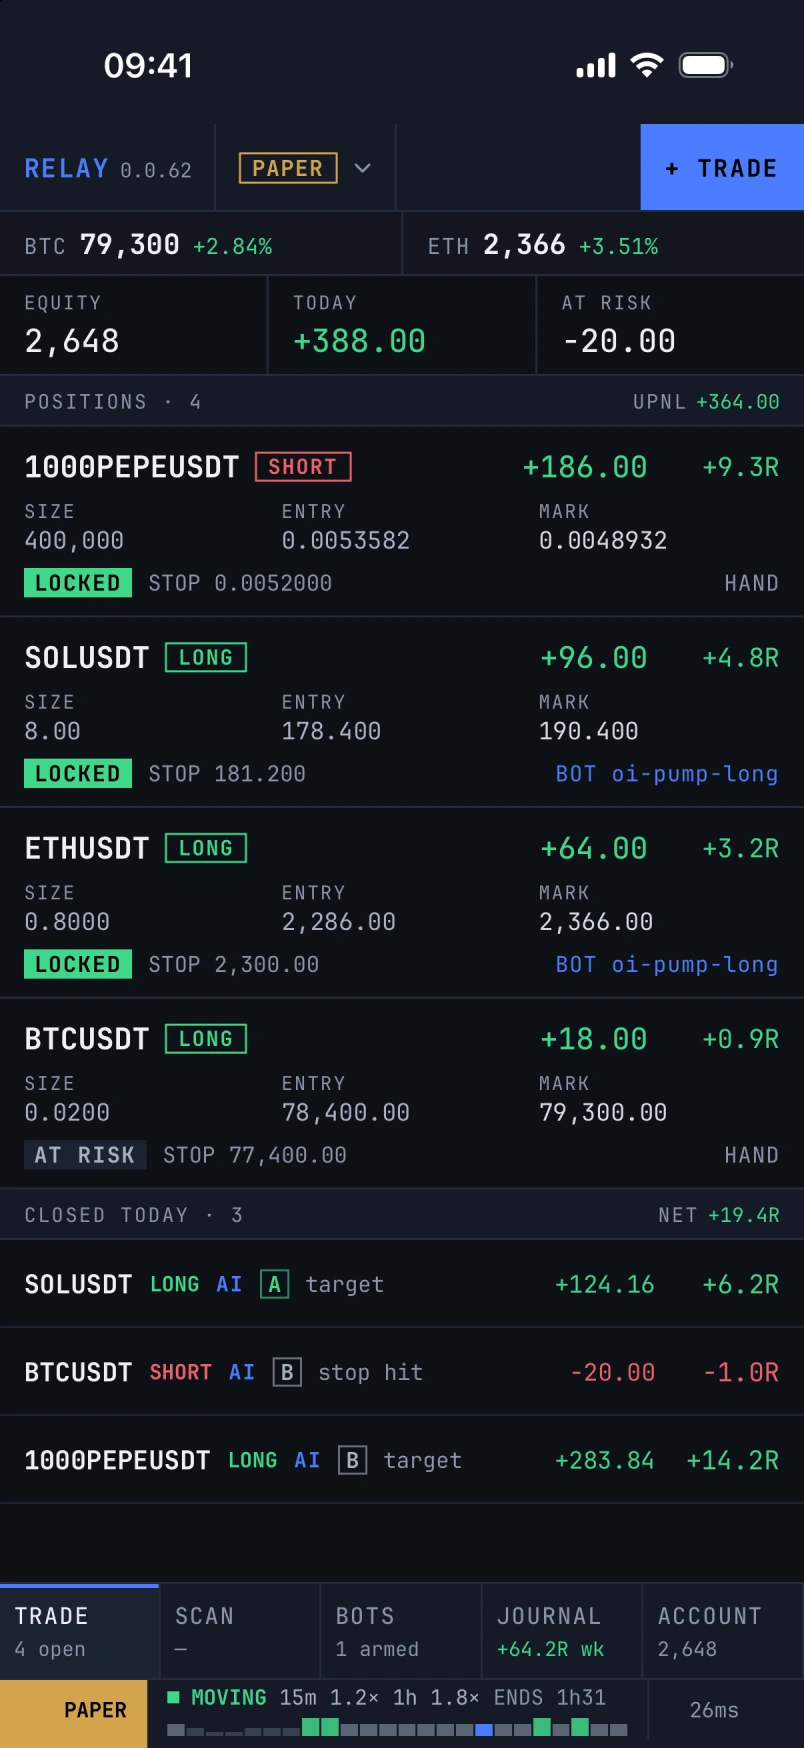
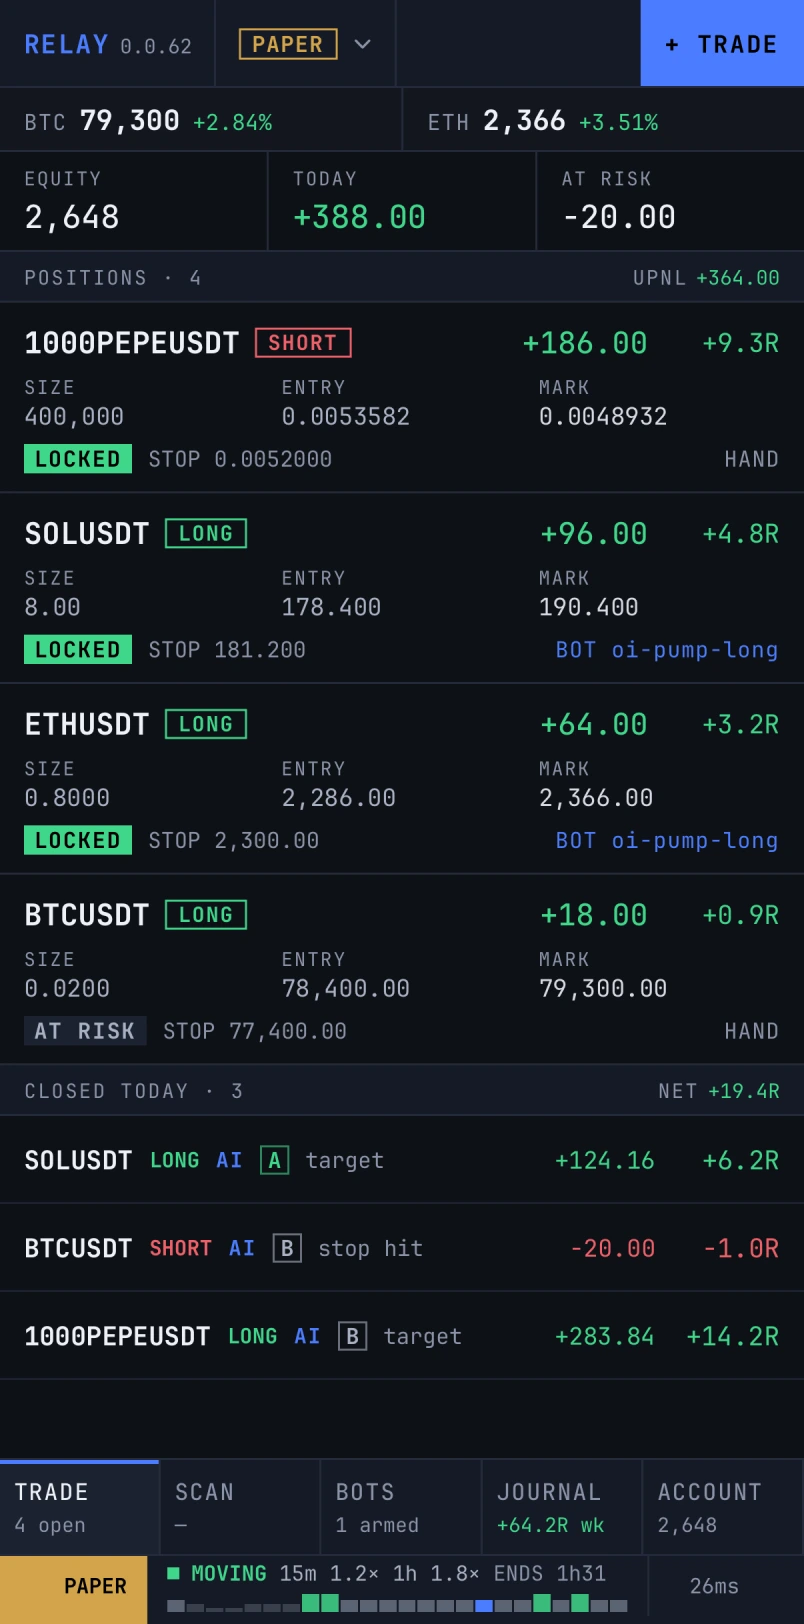
Export app-only screenshots and restore corrected drawdown band

diff --git a/index.html b/index.html
@@ -313,9 +313,9 @@
     <div class="box">
       <div class="t"><span><b>Relay for iPhone</b> · native app · demo data</span></div>
       <div class="phones">
-        <figure><img src="img/ios-positions.webp" width="804" height="1748" alt="Relay iPhone app with demo data: four open positions, $2,648 equity and +$388 closed today, from a $1,000 starting deposit." loading="lazy"><figcaption>positions · stops protected</figcaption></figure>
-        <figure><img src="img/ios-position.webp" width="804" height="1748" alt="Relay iPhone position chart with demo data: a profitable PEPE short, +$186 unrealized, with entry, a tightened stop and market indicators." loading="lazy"><figcaption>chart · manage the trade</figcaption></figure>
-        <figure><img src="img/ios-journal.webp" width="804" height="1748" alt="Relay iPhone journal with demo data: +64.2R for the week and a rising curve showing $1,284 net closed profit." loading="lazy"><figcaption>journal · every trade recorded</figcaption></figure>
+        <figure><img src="img/ios-positions.webp" width="804" height="1624" alt="Relay iPhone app with demo data: four open positions, $2,648 equity and +$388 closed today, from a $1,000 starting deposit." loading="lazy"><figcaption>positions · stops protected</figcaption></figure>
+        <figure><img src="img/ios-position.webp" width="804" height="1624" alt="Relay iPhone position chart with demo data: a profitable PEPE short, +$186 unrealized, with entry, a tightened stop and market indicators." loading="lazy"><figcaption>chart · manage the trade</figcaption></figure>
+        <figure><img src="img/ios-journal.webp" width="804" height="1624" alt="Relay iPhone journal with demo data: +64.2R for the week and a rising curve showing $1,284 net closed profit." loading="lazy"><figcaption>journal · every trade recorded</figcaption></figure>
       </div>
     </div>
   </div>

diff --git a/docs/ios-screenshots.md b/docs/ios-screenshots.md
@@ -50,12 +50,14 @@ avoid stale simulator preferences. Use `simctl status_bar` for 9:41, full Wi-Fi
 and cellular bars, and a full discharging battery. Wait for the charts to
 finish loading and inspect a second capture; simulator images can lag.
 
-The journal capture also uses the native `DrawdownArea` renderer fix
-([relay-terminal PR #660](https://github.com/mico/relay-terminal/pull/660)): shade
-only between the underwater curve and its peak, interpolating the recovery
-crossing instead of painting a full-height band through the recovery day.
+The journal capture also uses the native `DrawdownSpan` renderer fix
+([relay-terminal PR #660](https://github.com/mico/relay-terminal/pull/660)): keep the original
+full-height red wash, ending at the interpolated recovery crossing rather
+than the recovery day’s close.
 
 These assets were captured on iPhone 17 Pro at 1206×2622 with Relay 0.0.62,
-then encoded with `cwebp -q 92 -resize 804 1748 input.png -o output.webp`.
+exported without the 186px system status area (clock, Wi-Fi and battery).
+All three app-only images are 804×1624, encoded with
+`cwebp -q 92 -crop 0 186 1206 2436 -resize 804 1624 input.png -o output.webp`.
 Stop the demo server and restore the original simulator app and preferences
 after capturing. The landing page is static; there is no build step.
